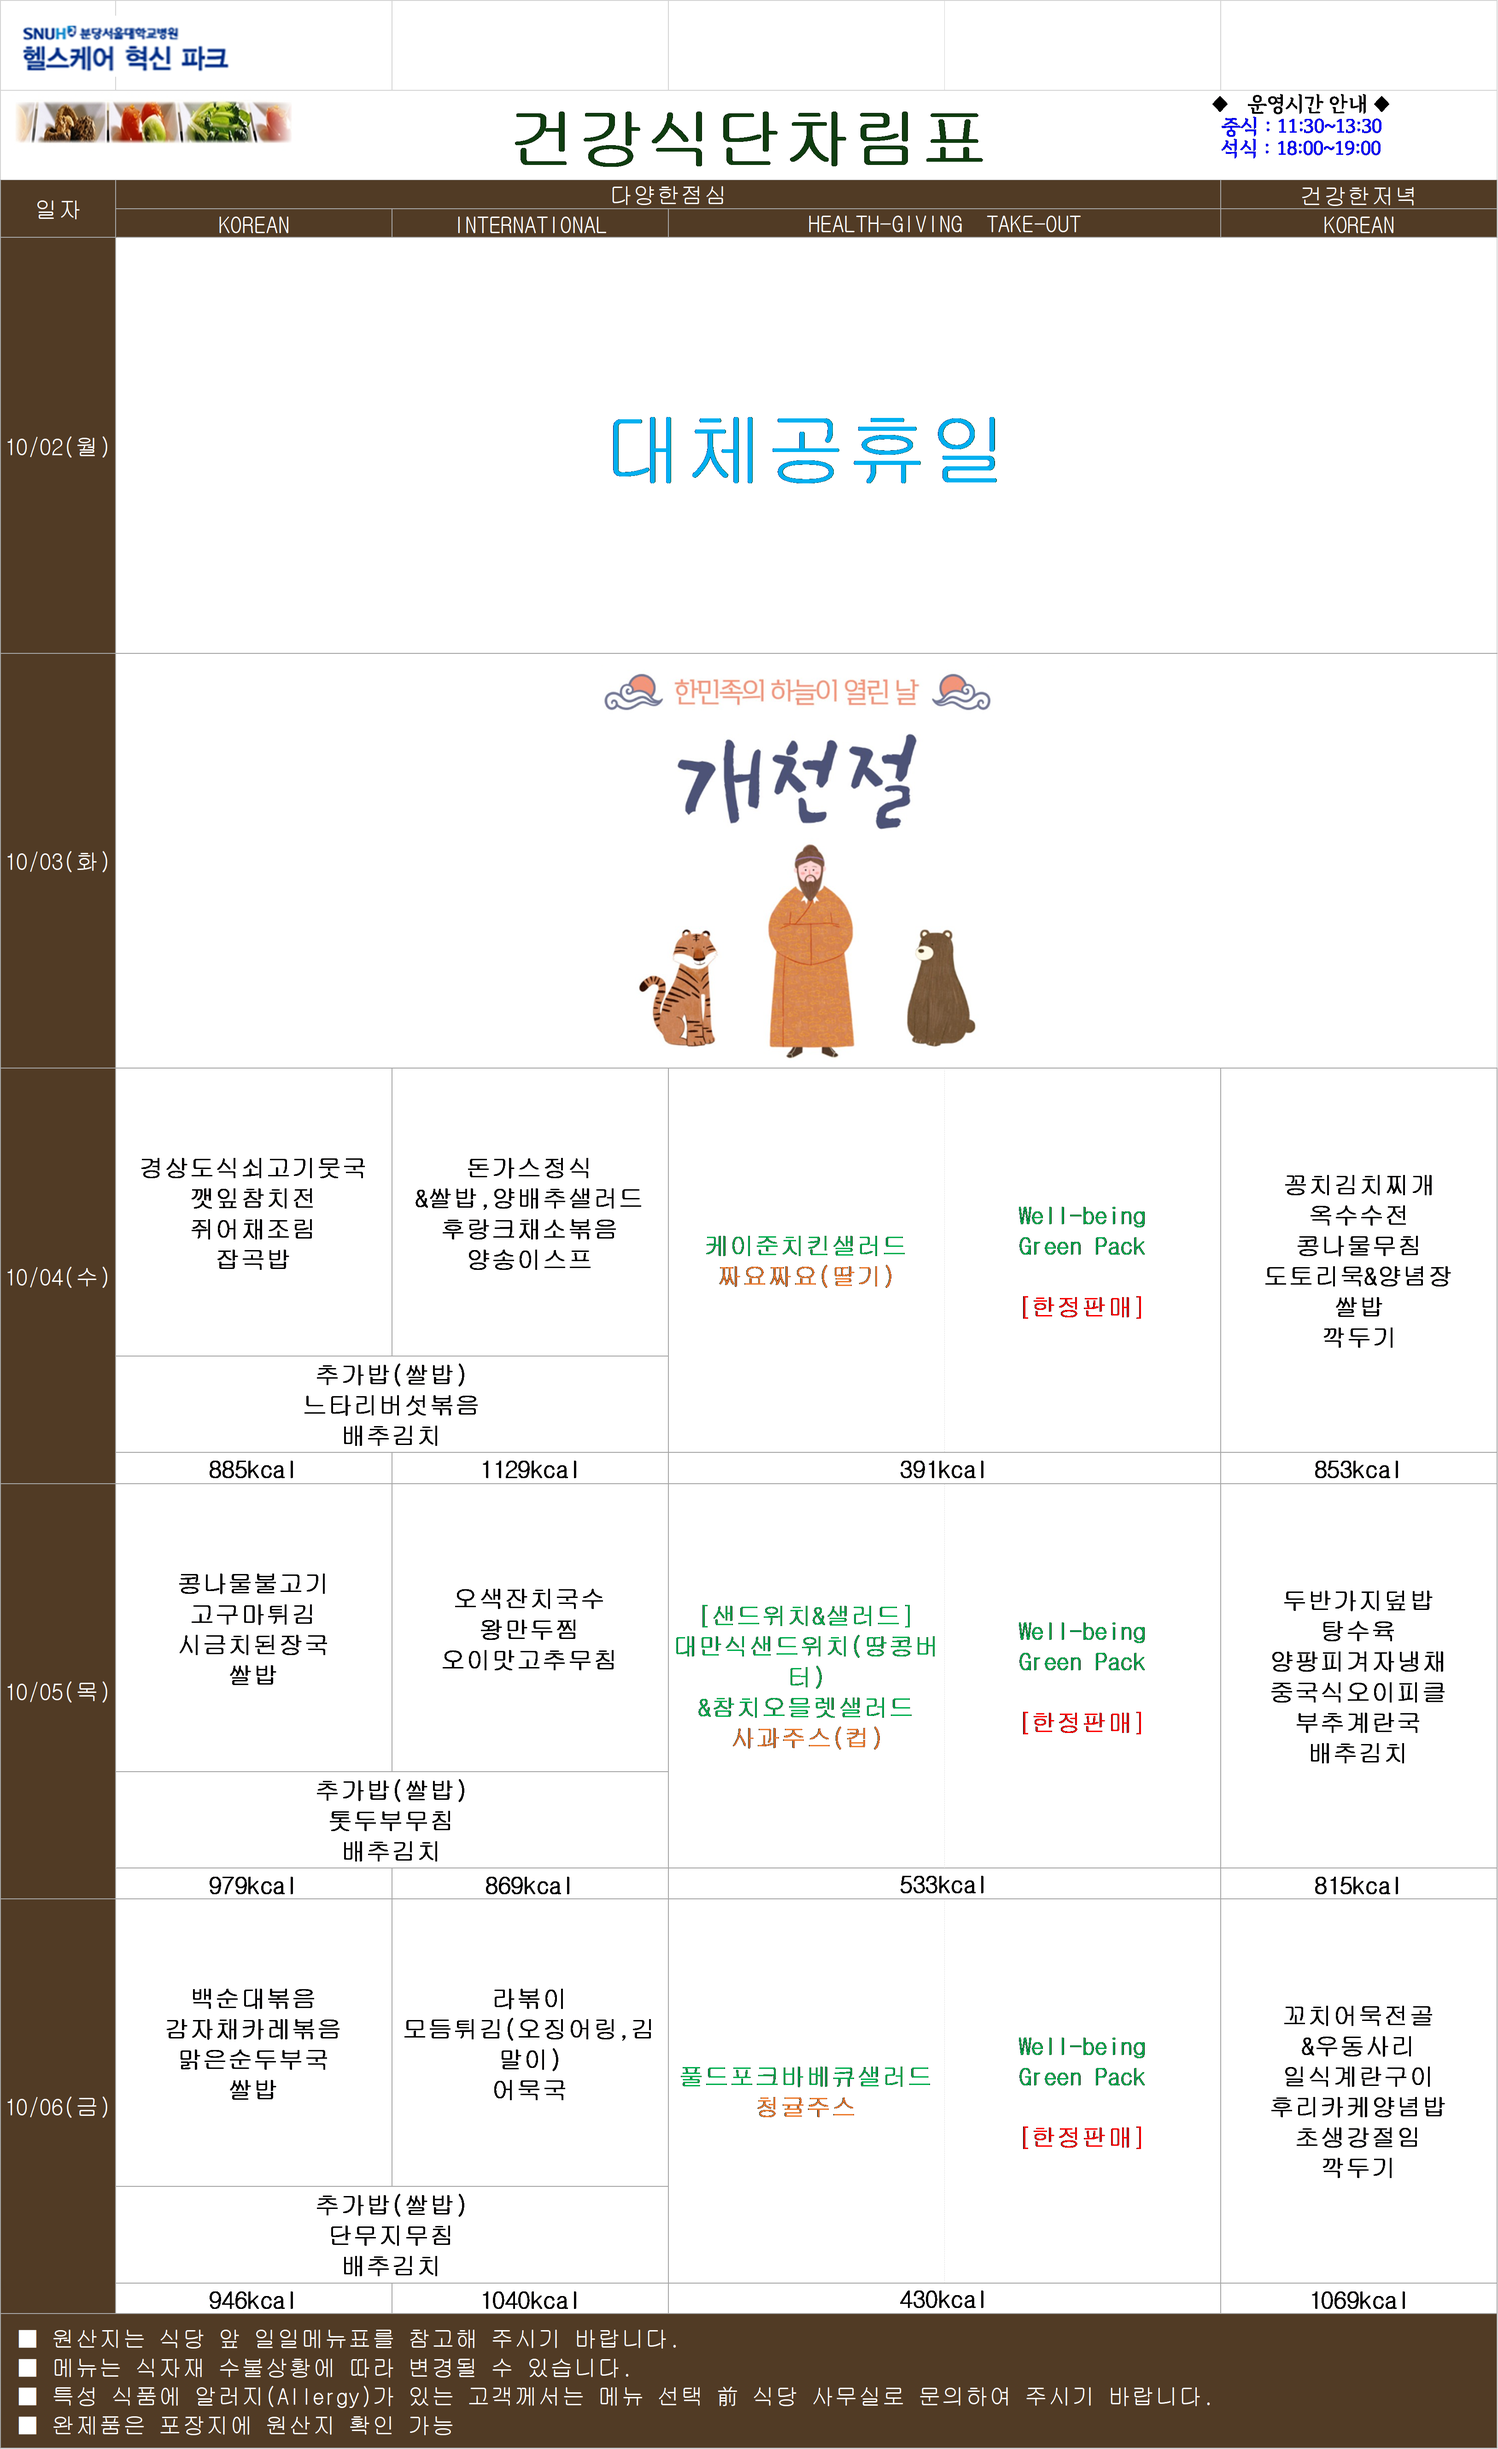
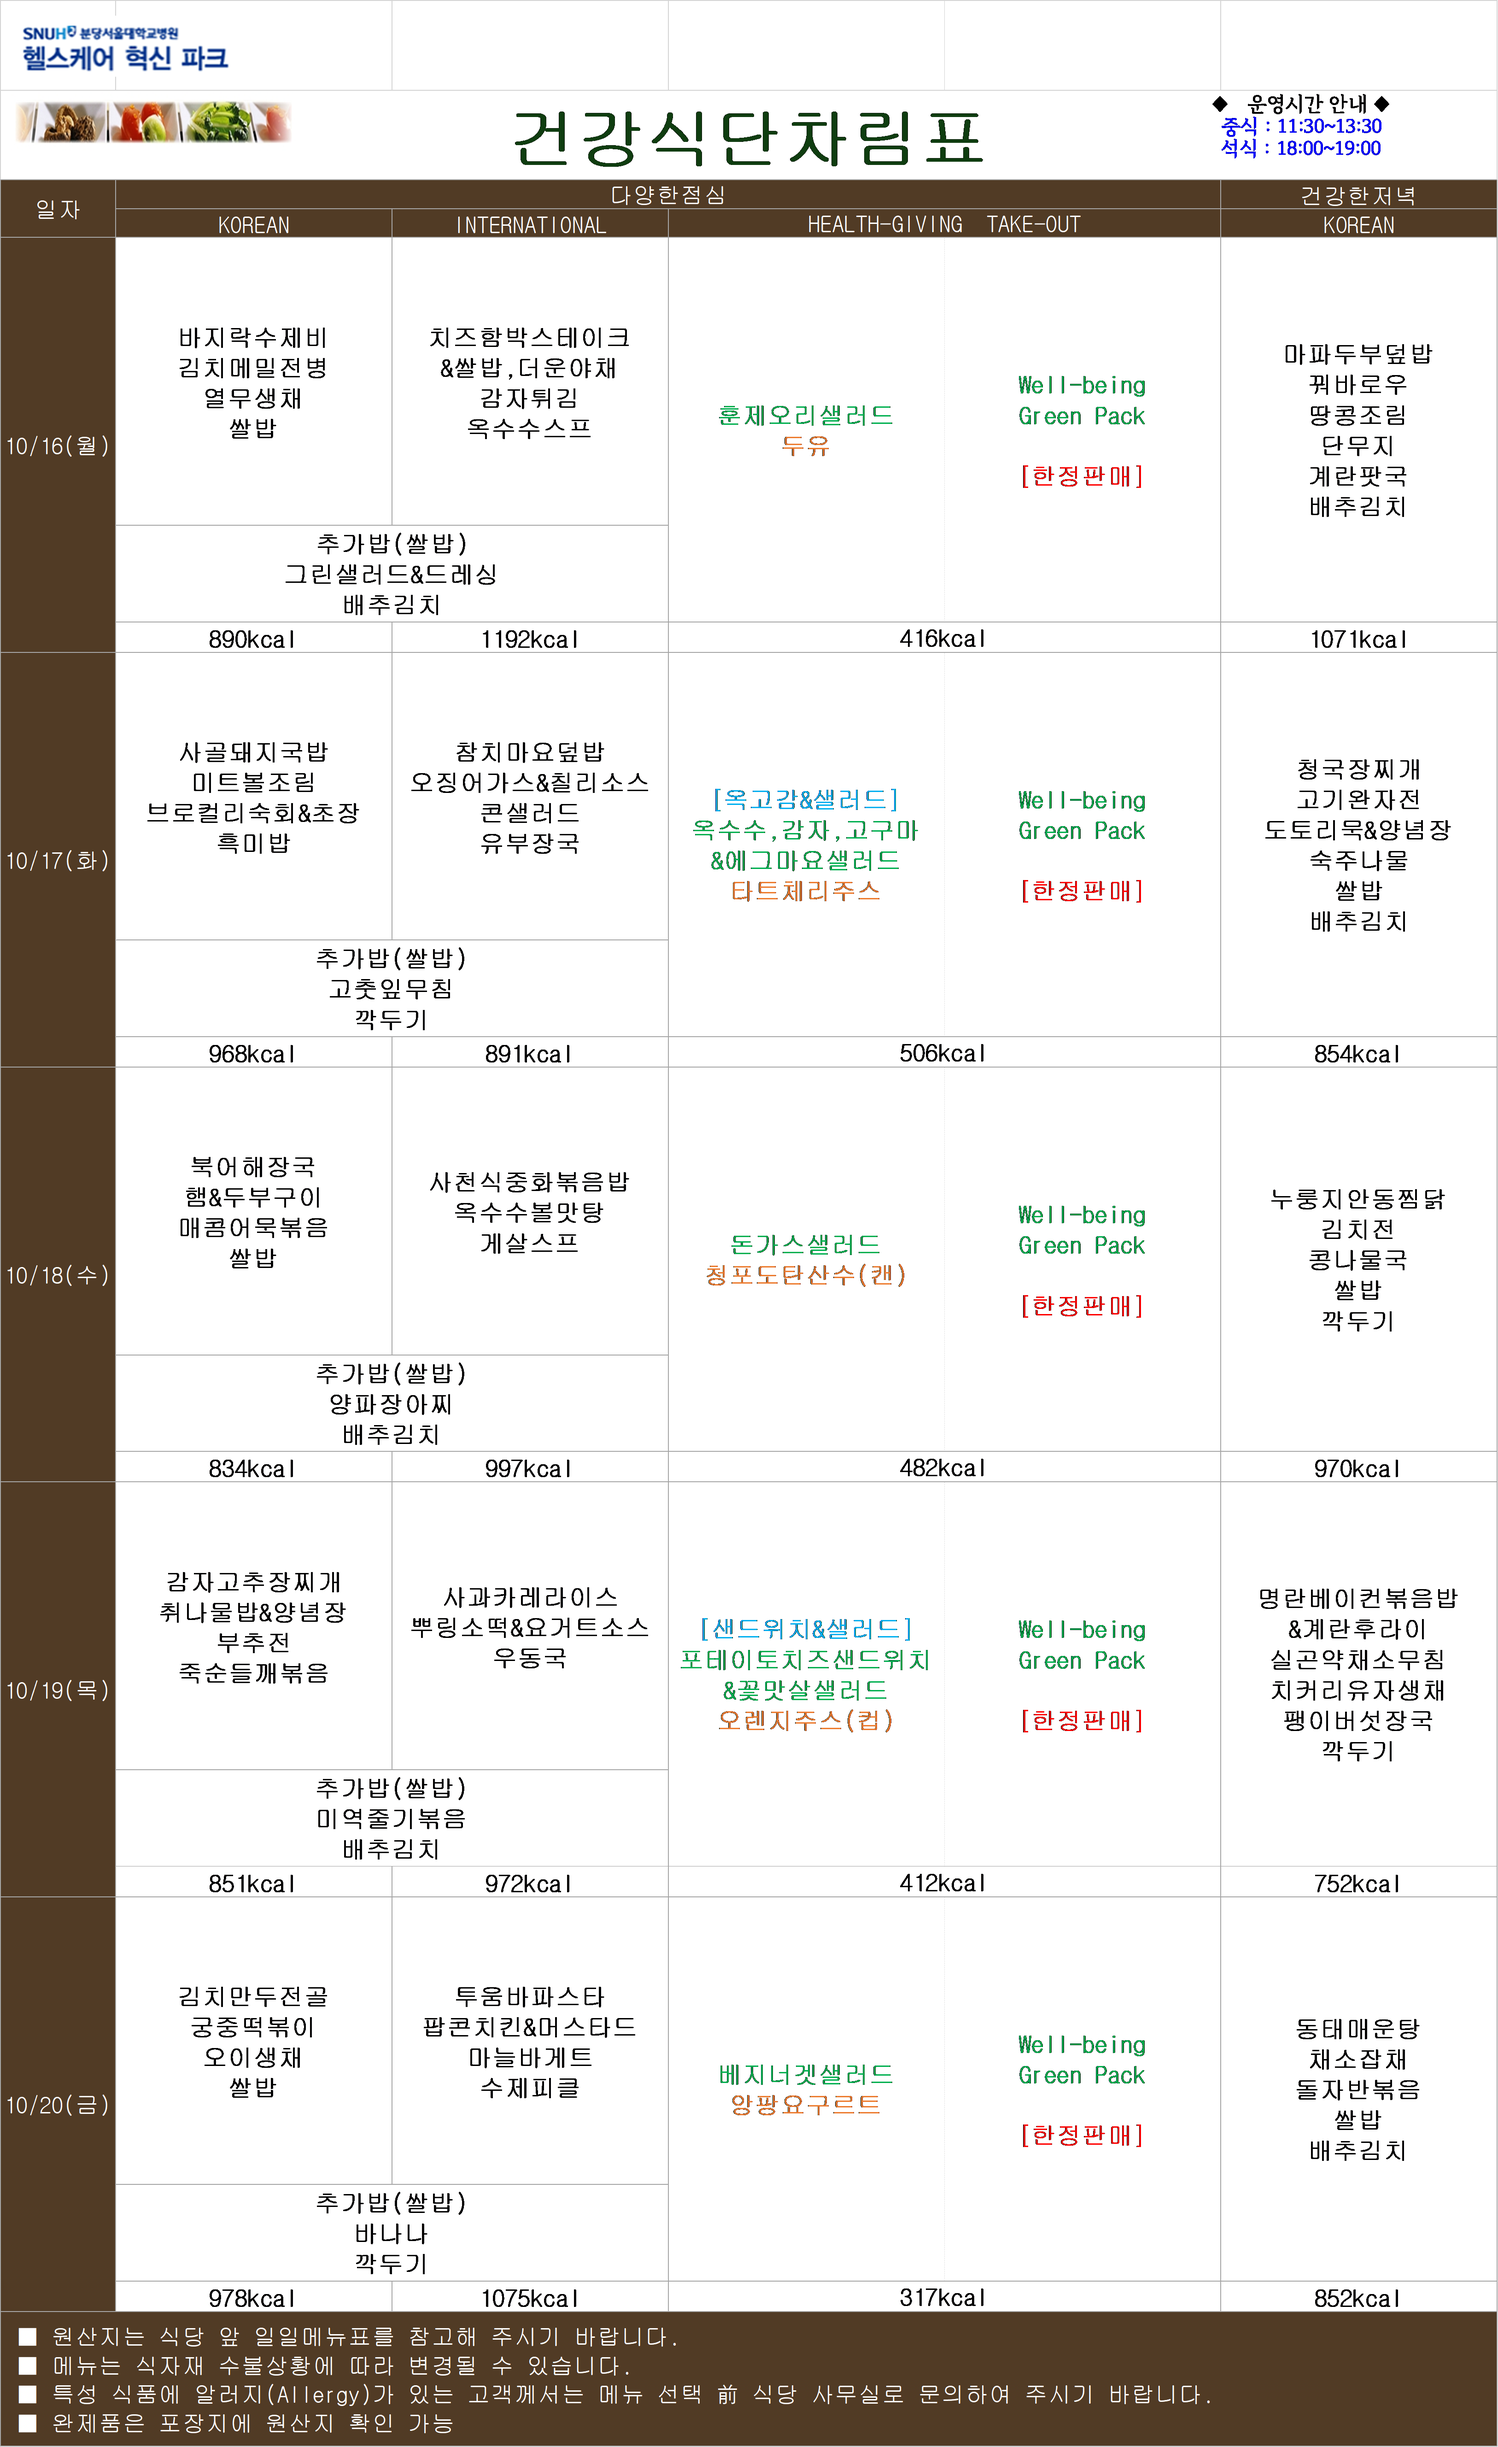
Add files via upload

diff --git a/1/index.html b/1/index.html
@@ -12,10 +12,15 @@
 <h2> 메뉴 업데이트는 주인장 여유가 되면 합니다. (이미지 확대해서 보세요) <br> </h2>
 
 <br>
+<h1> 10월 2주차  </h1>
 <img src="1동.png" width="100%">
 
+<br>
+<h1> 10월 3주차  </h1>
+<img src="1동_1.png" width="100%">
 
-<h6> Last update 2023/10/10  </h6>  
+
+<h6> Last update 2023/10/12  </h6>  
 <h1 >맛있게 드세요.  </h1> 
 
 </body>

diff --git a/6/index.html b/6/index.html
@@ -12,10 +12,14 @@
 <h2> 메뉴 업데이트는 주인장 여유가 되면 합니다. (이미지 확대해서 보세요) <br> </h2>
 
 <br>
+<h1> 10월 2주차 </h1>
 <img src="수술.png" width="100%">
 
+<br>
+<h1> 10월 3주차 </h1>
+<img src="수술_1.png" width="100%">
 
-<h6> Last update 2023/10/10  </h6>  
+<h6> Last update 2023/10/12  </h6>  
 <h1 >맛있게 드세요.  </h1> 
 
 </body>

diff --git a/2/index.html b/2/index.html
@@ -12,10 +12,15 @@
 <h2> 메뉴 업데이트는 주인장 여유가 되면 합니다. (이미지 확대해서 보세요) <br> </h2>
 
 <br>
+<h1> 10월 2주차  </h1>
 <img src="HIP.png" width="50%">
 
+<br>
+<h1> 10월 3주차  </h1>
+<img src="HIP_1.png" width="50%">
 
-<h6> Last update 2023/10/10  </h6>  
+
+<h6> Last update 2023/10/12  </h6>  
 <h1 >맛있게 드세요.  </h1>  
  
 </body>
